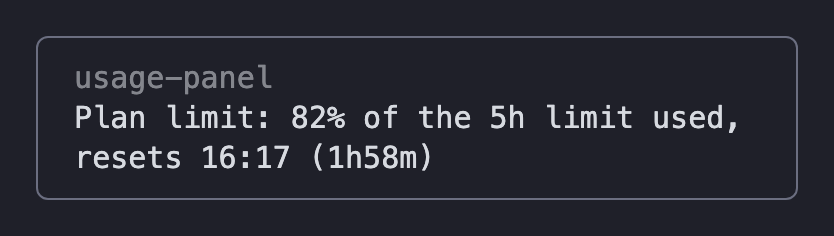
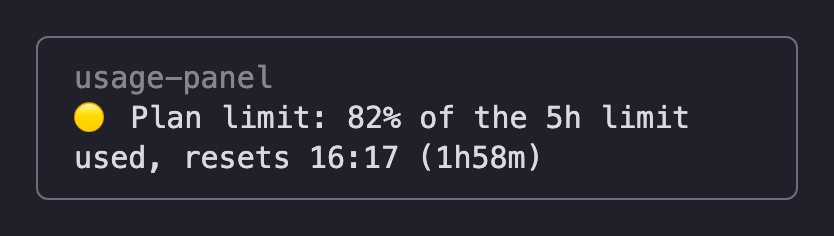
Sidebar: the plan limit toast carries a yellow mark at 80% and a red one at 95%
A toast takes text and a time only, so its box and letters are the engine's
one colour. The level is a coloured mark at the start of the line.

Changed region(s): [[0.0624, 0.4153, 0.9041, 0.5636], [0.3741, 0.5932, 0.6547, 0.7415], [0.0935, 0.5932, 0.3429, 0.7415]]

diff --git a/mods/usage-panel/tests/usage-panel.test.ts b/mods/usage-panel/tests/usage-panel.test.ts
@@ -589,7 +589,7 @@ test('a plan limit that is close is toasted, once at 80% and once at 95%', async
   five = 0.81
   await clock.advance(60000)
   expect(limit().length).toBe(1)
-  expect(limit()[0]).toContain('Plan limit: 81% of the 5h limit used, resets ')
+  expect(limit()[0]).toContain('🟡 Plan limit: 81% of the 5h limit used, resets ')
   // The same level is not repeated.
   five = 0.9
   await clock.advance(60000)
@@ -597,7 +597,7 @@ test('a plan limit that is close is toasted, once at 80% and once at 95%', async
   five = 0.96
   await clock.advance(60000)
   expect(limit().length).toBe(2)
-  expect(limit()[1]).toContain('96% of the 5h limit')
+  expect(limit()[1]).toContain('🔴 Plan limit: 96% of the 5h limit')
   await clock.advance(120000)
   expect(limit().length).toBe(2)
 })

diff --git a/mods/usage-panel/hooks/register.js b/mods/usage-panel/hooks/register.js
@@ -379,7 +379,9 @@ async function readExtras($) {
 
 // The warning for a limit that is close: longer on screen from 95%.
 function limitToast($, l, now) {
-  $.ui.toast('Plan limit: ' + Math.round(l.util * 100) + '% of the ' + limitName(l.key) + ' limit used, resets ' + when(l.reset, now), { timeoutMs: l.util >= LIMIT_ALARM ? 30000 : 15000 })
+  // A toast is one colour, the engine's: the level is a coloured mark in
+  // the text, yellow at the warning and red at the alarm.
+  $.ui.toast((l.util >= LIMIT_ALARM ? '🔴 ' : '🟡 ') + 'Plan limit: ' + Math.round(l.util * 100) + '% of the ' + limitName(l.key) + ' limit used, resets ' + when(l.reset, now), { timeoutMs: l.util >= LIMIT_ALARM ? 30000 : 15000 })
 }
 
 // The plan's limits from Burst's list of recent replies: the newest reply

diff --git a/README.md b/README.md
@@ -156,9 +156,9 @@ How close you are to your plan's limits. Anthropic states the figures itself, in
 | `$132 at API rates this month ($200 plan)` | What this month's use would have cost pay-as-you-go, beside the plan's flat price. Shown for Pro ($20), Max 5x ($100) and Max 20x ($200). |
 | Lines starting `↗ !` | `↗`: at the pace of this window so far, the limit is reached before it resets, with when and by how much. `!`: a limit is used up, and when it comes back. |
 
-**A warning before you hit a limit.** When a limit passes 80%, and again at 95%, the mod raises a toast in the session: `Plan limit: 81% of the 5h limit used, resets 16:17 (1h58m)`. Once per level and window, in every open session, so it is not repeated each minute.
+**A warning before you hit a limit.** When a limit passes 80%, and again at 95%, the mod raises a toast in the session: `🟡 Plan limit: 81% of the 5h limit used, resets 16:17 (1h58m)`, with a yellow mark at 80% and a red one (`🔴`) at 95%. Once per level and window, in every open session, so it is not repeated each minute.
 
-<img src="docs/toast-limit.png" alt="The toast: usage-panel, Plan limit: 82% of the 5h limit used, resets 16:17 (1h58m)" width="380">
+<img src="docs/toast-limit.png" alt="The toast: usage-panel, a yellow mark, Plan limit: 82% of the 5h limit used, resets 16:17 (1h58m)" width="380">
 
 <sub>Claude Code draws the toast; this picture copies its look.</sub>
 
